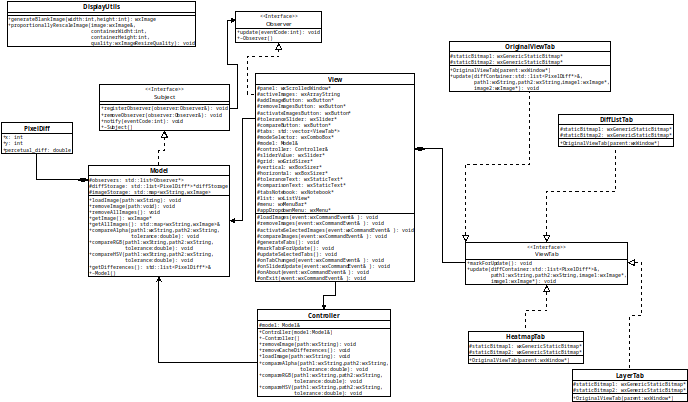
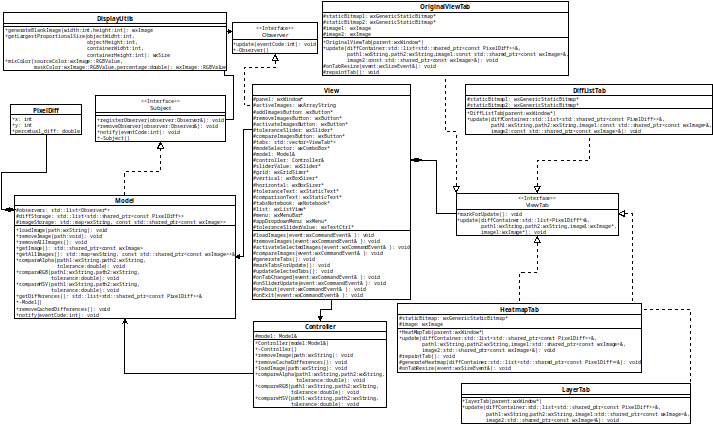
*Updated documentation *Updated test fixtures

Changed region(s): [[0.0, 0.0, 1.0, 1.0]]

diff --git a/test/UtilityFixture.cpp b/test/UtilityFixture.cpp
@@ -32,13 +32,13 @@ TEST_F(ImageUtilsSuite,TestAlphaPixel){
 /*This test check that the function comparePixelRGB return the results as excepted.
  * If the percentage difference are minus than the tolerance it return the value 0,otherwise it act like the previous function*/
 TEST_F(ImageUtilsSuite,TestRGBPixel){
-	EXPECT_NEAR(0.33333,utility.comparePixelRGB((0,0,0),(0,0,255),0),0.00001);
+	EXPECT_NEAR(0.57735,utility.comparePixelRGB((0,0,0),(0,0,255),0),0.00001);
 	EXPECT_NEAR(0,utility.comparePixelRGB((255,50,60),(78,22,120),1.0),0.1); //percentage max so if not equals it return 0
 }
 /*This test check that the function comparePixelRGB return the results as excepted.
  * If the percentage difference are minus than the tolerance it return the value 0,otherwise it act like the previous function*/
 TEST_F(ImageUtilsSuite,TestHSVPixel){
-	EXPECT_NEAR(0.16,utility.comparePixelHSV((0.8,0.47,0.12),(0.77,0.21,0.36),0),0.02);
+	EXPECT_NEAR(0.27712,utility.comparePixelHSV((0.8,0.47,0.12),(0.77,0.21,0.36),0),0.00001);
 	EXPECT_NEAR(0,utility.comparePixelHSV((0.47,0.33,0.88),(0.25,0.74,0.63),1.0),0.2); //percentage max so if not equals it return 0
 }
 //

diff --git a/test/ModelFixture.cpp b/test/ModelFixture.cpp
@@ -85,14 +85,14 @@ TEST_F(ModelSuite,testRGB){
 	double result = diffStorage.front()->percentual_diff;
 	EXPECT_EQ(0,x);
 	EXPECT_EQ(0,y);
-	EXPECT_NEAR(0.36078,result,0.00002);
+	EXPECT_NEAR(0.430028,result,0.00002);
 	x = diffStorage.back()->x;
 	y = diffStorage.back()->y;
 	result = diffStorage.back()->percentual_diff;
 	//Test of last pixel
 	EXPECT_EQ(15,x);
 	EXPECT_EQ(15,y);
-	EXPECT_NEAR(0.31633,result,0.0002);
+	EXPECT_NEAR(0.32757,result,0.0002);
 	model.removeCachedDifferences();
 
 
@@ -107,13 +107,13 @@ TEST_F(ModelSuite,testHSV){
 	double result = diffStorage.front()->percentual_diff;
 	EXPECT_EQ(0,x);
 	EXPECT_EQ(0,y);
-	EXPECT_NEAR(0.38373,result,0.00002);
+	EXPECT_NEAR(0.434399,result,0.00002);
 	//Test of last pixel
 	x = diffStorage.back()->x;
 	y = diffStorage.back()->y;
 	result = diffStorage.back()->percentual_diff;
 	EXPECT_EQ(15,x);
 	EXPECT_EQ(15,y);
-	EXPECT_NEAR(0.161517,result,0.00002);
+	EXPECT_NEAR(0.201382,result,0.00002);
 }
 //

diff --git a/src/view/View.cpp b/src/view/View.cpp
@@ -7,9 +7,7 @@ enum {
 	ACTIVATE_IMAGES_BUTTON,
 	COMPARE_IMAGES_BUTTON,
 	TOLERANCE_SLIDER,
-	
 	TAB_NOTEBOOK,
-	
 	ABOUT
 };
 
@@ -21,9 +19,7 @@ wxBEGIN_EVENT_TABLE(View, wxFrame)
 	EVT_BUTTON(ACTIVATE_IMAGES_BUTTON, View::activateSelectedImages)
 	EVT_BUTTON(COMPARE_IMAGES_BUTTON, View::compareImages)
 	EVT_SLIDER(TOLERANCE_SLIDER, View::onSliderUpdate)
-	
 	EVT_NOTEBOOK_PAGE_CHANGED(TAB_NOTEBOOK, View::onTabChanged)
-	
 	EVT_MENU(ABOUT, View::onAbout)
 	EVT_MENU(wxID_EXIT, View::onExit)
 wxEND_EVENT_TABLE()
